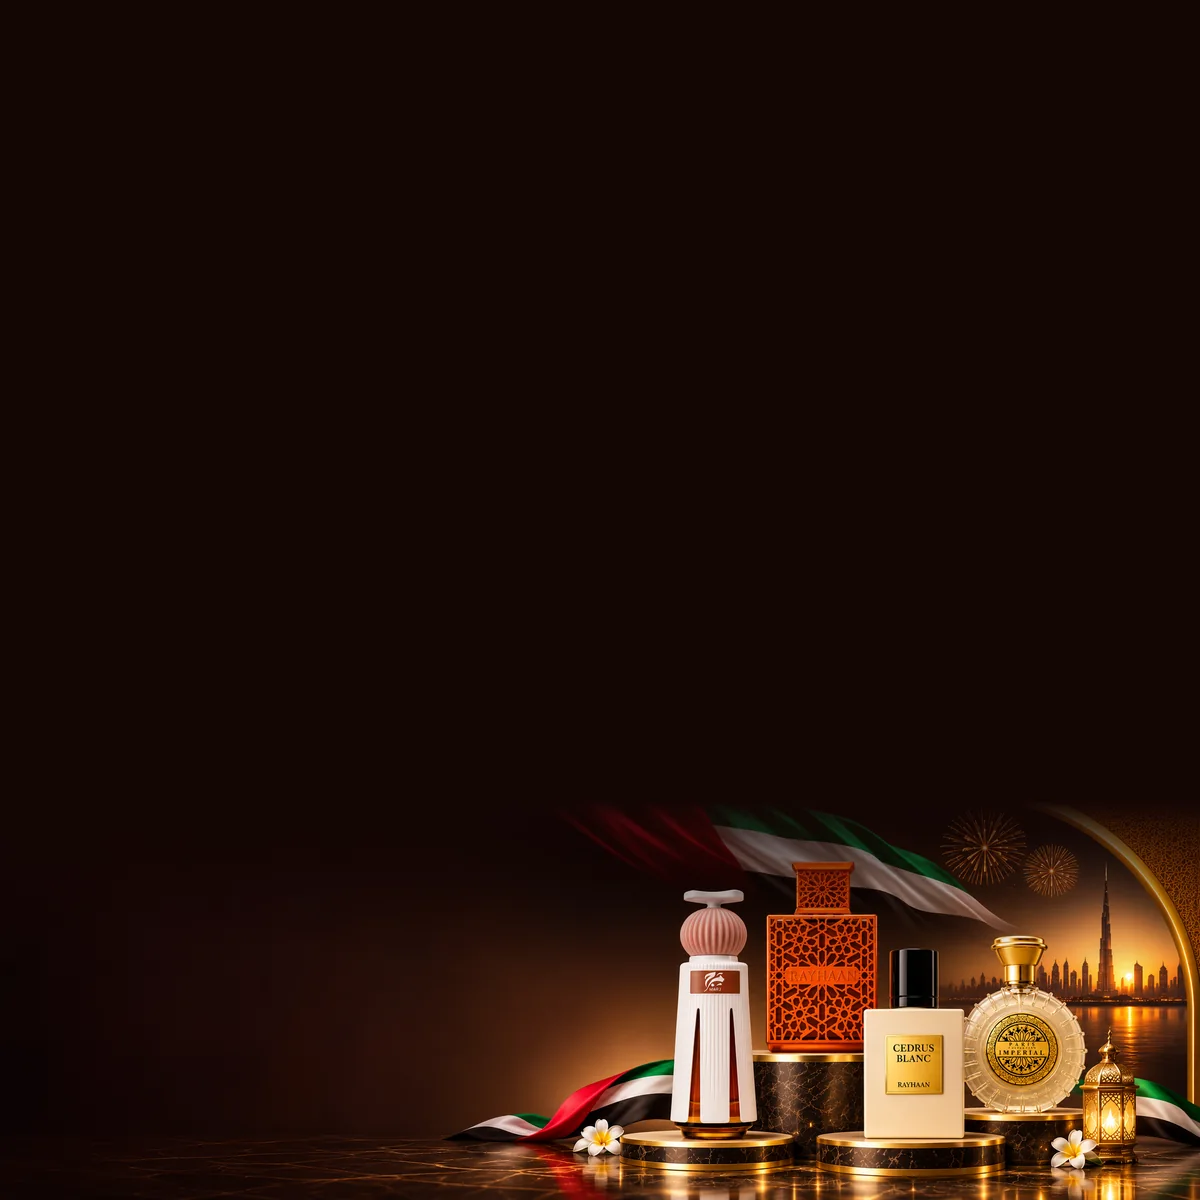
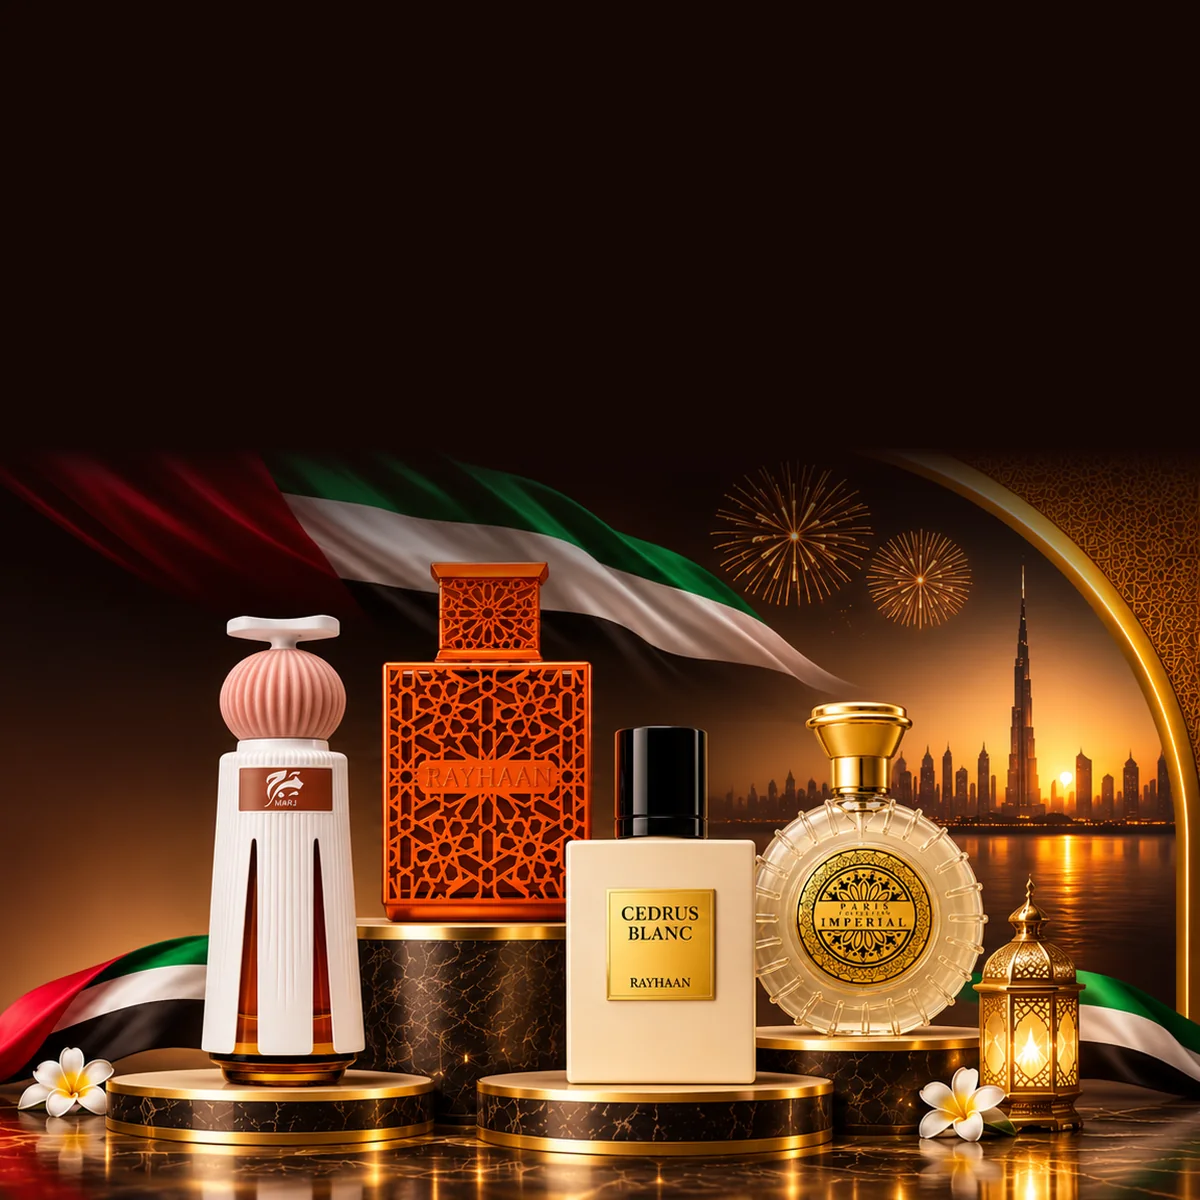
Fix the intro on phones, and make the mobile hero show the bottles
Two separate things, both only visible on a handset.

The intro never stacked. There is a rule for it at 900px, but
.coll-intro-grid.has-figure sets its own two columns and a media query adds
no specificity, so one class could not beat two: the copy was crushed into
a half-width column and the image sat beside it as a thumbnail. The offer
page is the first to set an intro image, which is why a rule that has been
wrong for a while only showed up now. Named in both stylesheets, so the
critical CSS does not paint the broken layout first.

The mobile hero was the whole 3:1 strip shrunk into the bottom of a square
-- 400px of 1200, so the bottles were tiny. It is cropped to the product
cluster now and fills 754px of the frame, with the generated ground above
it where the heading goes.

diff --git a/assets/theme.css b/assets/theme.css
@@ -5098,10 +5098,22 @@
     }
 
     @media(max-width:900px) {
-      .coll-intro-grid {
+      /* .has-figure has to be named here. It sets its own two columns above,
+         and a media query adds no specificity -- so one class could never
+         beat two and the intro stayed side by side on a phone: the copy
+         crushed into a half-width column, the image a thumbnail beside it.
+         The offer page is the first to set an intro image, which is why this
+         only surfaced now. */
+      .coll-intro-grid,
+      .coll-intro-grid.has-figure {
         grid-template-columns: 1fr;
         gap: 30px
       }
+
+      /* Stacked, the figure reads as a band under the copy rather than a
+         portrait, and it comes first so the artwork is what you meet. */
+      .coll-intro-grid.has-figure .coll-intro-figure { order: -1; }
+      .coll-intro-grid.has-figure .coll-intro-figure img { width: 100%; }
     }
 
     /* Why Customers Choose — icon cards */
